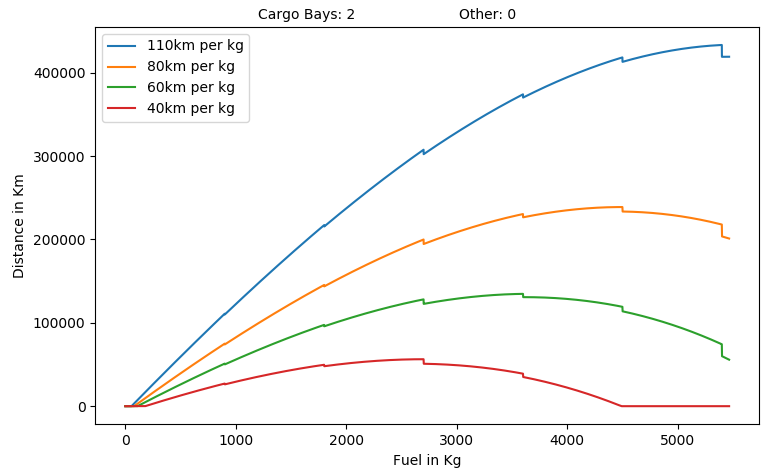
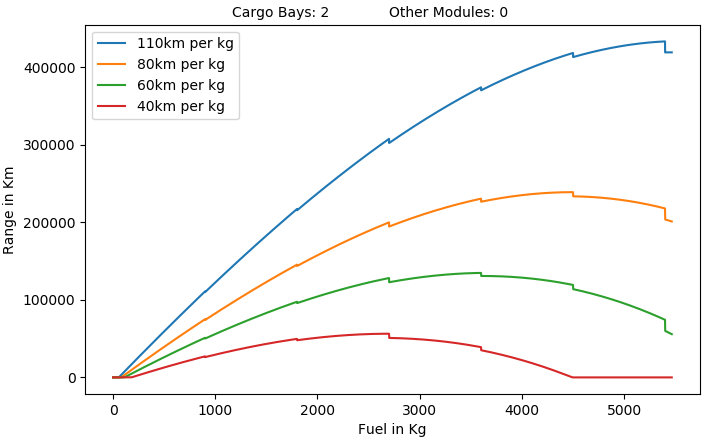
polish rocket calculator

diff --git a/dev_utils/rocket_distance.py b/dev_utils/rocket_distance.py
@@ -122,10 +122,10 @@ def main():
 		plt.plot(x_axis, y_axis, label=str(efficiency) + 'km per kg')
 
 	plt.xlabel('Fuel in Kg')
-	plt.ylabel('Distance in Km')
+	plt.ylabel('Range in Km')
 	pylab.legend(loc='upper left')
 	plt.text(max_fuel_amount * 0.3, max_distance * 1.12, 'Cargo Bays: ' + str(cargo_bays), ha='center', va='center')
-	plt.text(max_fuel_amount * 0.6, max_distance * 1.12, 'Other: ' + str(other_modules), ha='center', va='center')
+	plt.text(max_fuel_amount * 0.6, max_distance * 1.12, 'Other Modules: ' + str(other_modules), ha='center', va='center')
 	plt.show()
 
 
